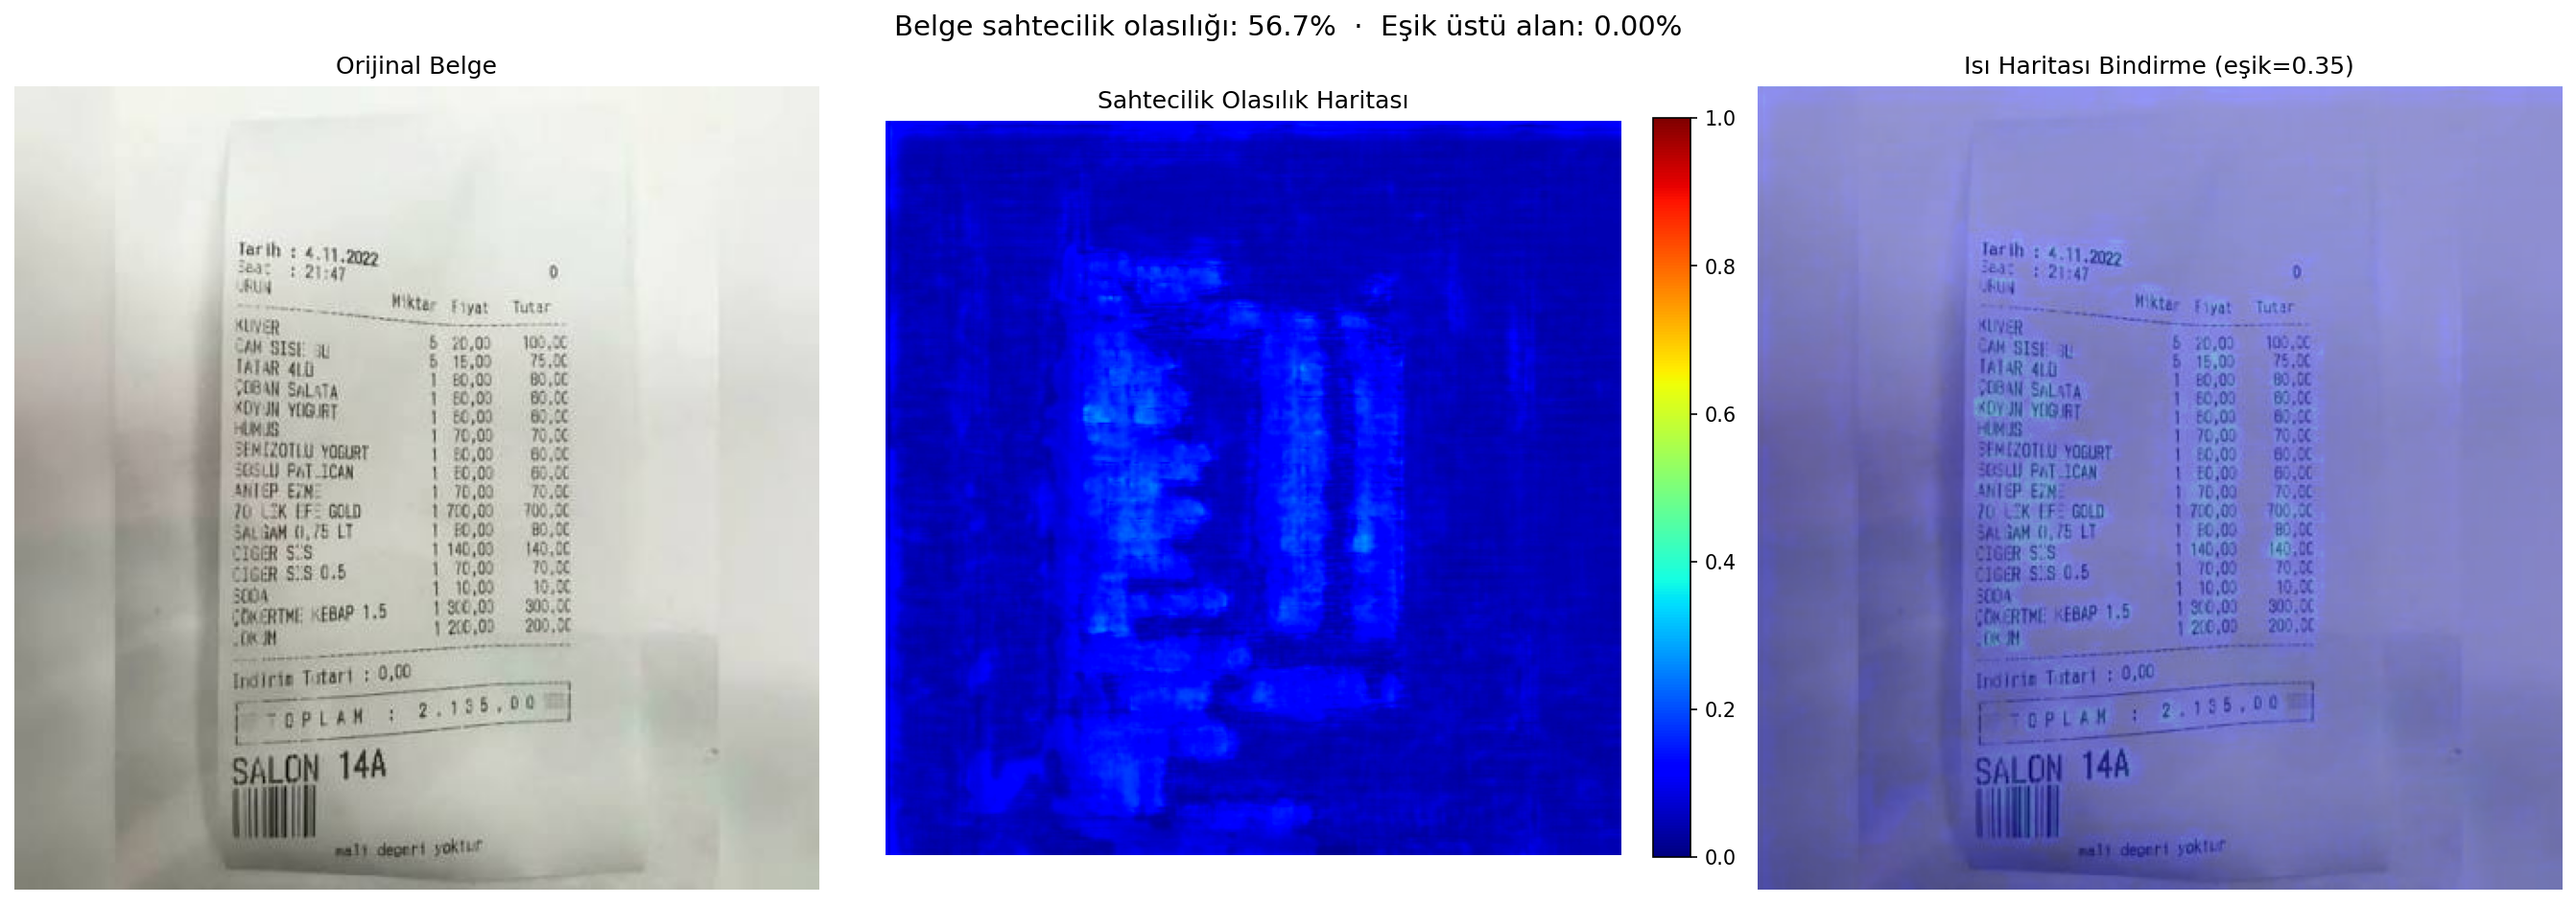
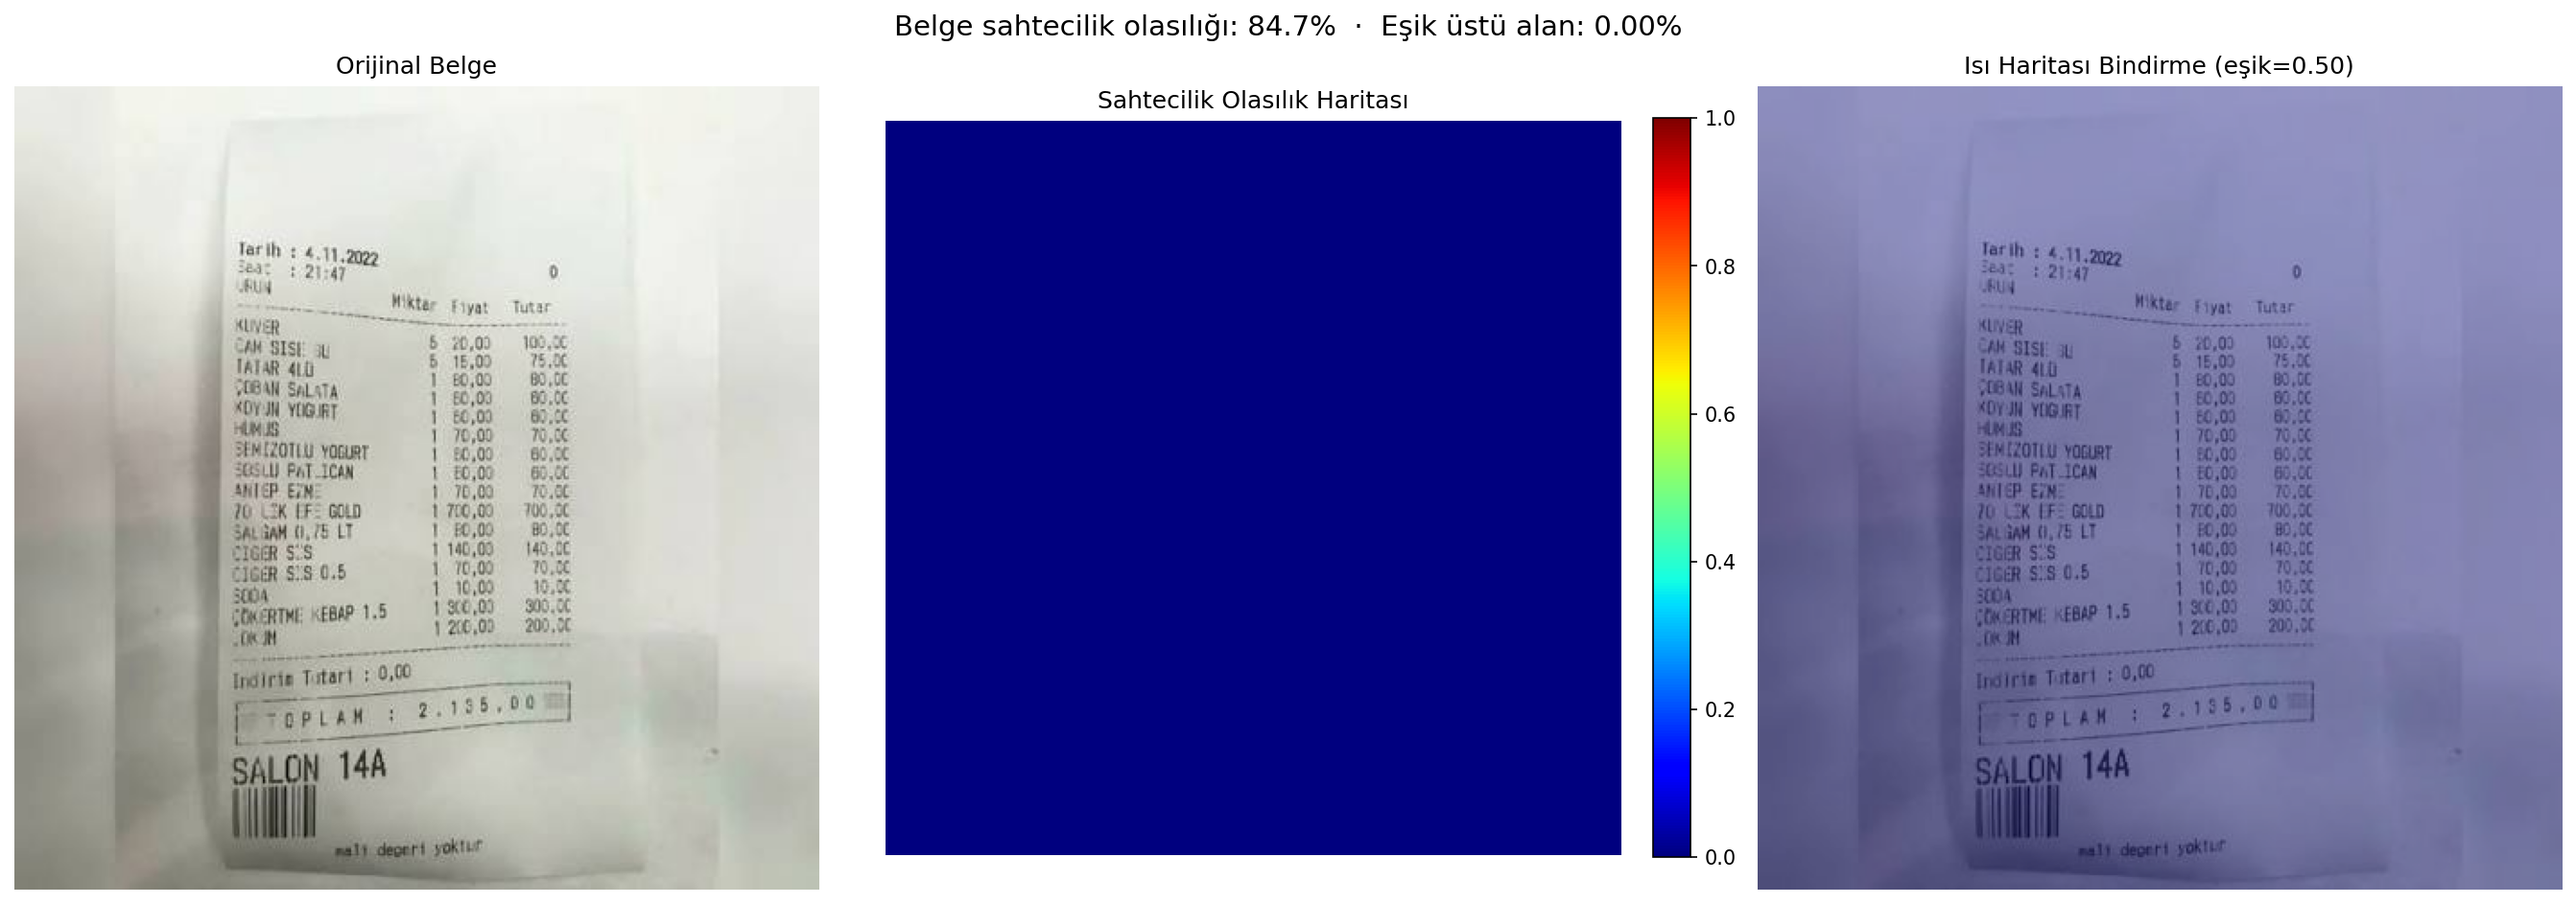
refactor(inference): update sliding window prediction with top-k average pooling

diff --git a/src/models.py b/src/models.py
@@ -25,6 +25,7 @@ Mimari
 
 from __future__ import annotations
 
+import math
 from pathlib import Path
 from typing import Any, Optional
 
@@ -184,8 +185,8 @@ def _tile_starts(length: int, tile: int, stride: int) -> list[int]:
 
 @torch.no_grad()
 def sliding_window_predict(model: DualStreamForensicNet, image: torch.Tensor, tile: int = 512,
-                           overlap: float = 0.25, batch_size: int = 4, temperature: float = 1.0
-                           ) -> tuple[np.ndarray, float]:
+                           overlap: float = 0.25, batch_size: int = 4, temperature: float = 1.0,
+                           top_k_ratio: float = 0.10) -> tuple[np.ndarray, float]:
     """
     Tam çözünürlüklü belgeyi örtüşen pencerelerle işler.
 
@@ -193,14 +194,19 @@ def sliding_window_predict(model: DualStreamForensicNet, image: torch.Tensor, ti
     boyutlandırma yapmadan yapılır; böylece SRM gürültü istatistiği korunur.
 
     * Piksel haritası: örtüşen bölgelerde olasılıkların ortalaması.
-    * Belge logit'i: pencerelerin ``cls_logit`` değerlerinin **maksimumu**. Eğitimde
-      yama etiketi "yamada sahte piksel var mı?" olduğu için, belgenin herhangi bir
-      penceresinde sahtecilik varsa belge sahtedir (çoklu örnek öğrenme mantığı).
+    * Belge logit'i: en yüksek ``cls_logit``'e sahip pencerelerin ``top_k_ratio``
+      kadarının (en az 1) **ortalaması** (Top-K Average). Eğitimde yama etiketi
+      "yamada sahte piksel var mı?" olduğu için belge skoru en şüpheli pencerelerden
+      gelir (çoklu örnek öğrenme mantığı); tek bir pencerenin aykırı logit'i yerine
+      en şüpheli %10'un ortalaması alınarak gerçek belgelerdeki yanlış alarmlar azaltılır.
+      ``k = max(1, ceil(top_k_ratio · pencere_sayısı))``; tek pencereli (≤ tile) belgede
+      ve ``top_k_ratio → 0`` için eski maksimum davranışına eşittir.
 
     Args:
         image: (3, H, W) normalize tensör.
         temperature: Piksel logit'lerine sigmoid'den önce uygulanan sıcaklık (``logit / T``).
             ``doc_logit`` ham döner; kalibrasyonu çağıran taraf uygular.
+        top_k_ratio: Belge logit'ine ortalaması alınan en yüksek pencere oranı (0, 1].
     Returns:
         (prob_map (H, W) float32 [0,1], doc_logit float)
     """
@@ -214,7 +220,7 @@ def sliding_window_predict(model: DualStreamForensicNet, image: torch.Tensor, ti
 
     prob_sum = torch.zeros((ph, pw), device=device)
     count = torch.zeros((ph, pw), device=device)
-    doc_logit = -float("inf")
+    window_logits = []
     for i in range(0, len(coords), batch_size):
         chunk = coords[i:i + batch_size]
         batch = torch.stack([padded[:, y:y + tile, x:x + tile] for y, x in chunk]).to(device)
@@ -223,6 +229,9 @@ def sliding_window_predict(model: DualStreamForensicNet, image: torch.Tensor, ti
         for (y, x), p in zip(chunk, probs):
             prob_sum[y:y + tile, x:x + tile] += p
             count[y:y + tile, x:x + tile] += 1
-        doc_logit = max(doc_logit, float(cls_logit.max()))
+        window_logits.append(cls_logit.float())
+    window_logits = torch.cat(window_logits)
+    k = max(1, math.ceil(top_k_ratio * window_logits.numel()))
+    doc_logit = float(window_logits.topk(k).values.mean())
     prob_map = (prob_sum / count.clamp_min(1))[:h, :w]
     return prob_map.cpu().numpy().astype(np.float32), doc_logit
